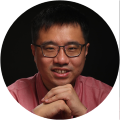
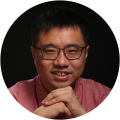
change

diff --git a/english.html b/english.html
@@ -402,7 +402,7 @@
                 <div class="item col-xs-6">
                     <div class="item-inner">
                         <div class="profile-holder">
-                            <img src="assets/images/team/George_2_120.png" alt="">
+                            <img src="assets/images/team/George120.png" alt="">
                         </div><!--//profile-holder-->
                         <div class="content-holder">
                             <h4 class="name">George Fazekas</h4>

diff --git a/index.html b/index.html
@@ -358,7 +358,7 @@
                 <div class="item col-xs-6">
                     <div class="item-inner">
                         <div class="profile-holder">
-                            <img src="assets/images/team/George_2_120.png" alt="">
+                            <img src="assets/images/team/George120.png" alt="">
                         </div><!--//profile-holder-->
                         <div class="content-holder">
                             <h4 class="name">George Fazekas</h4>
